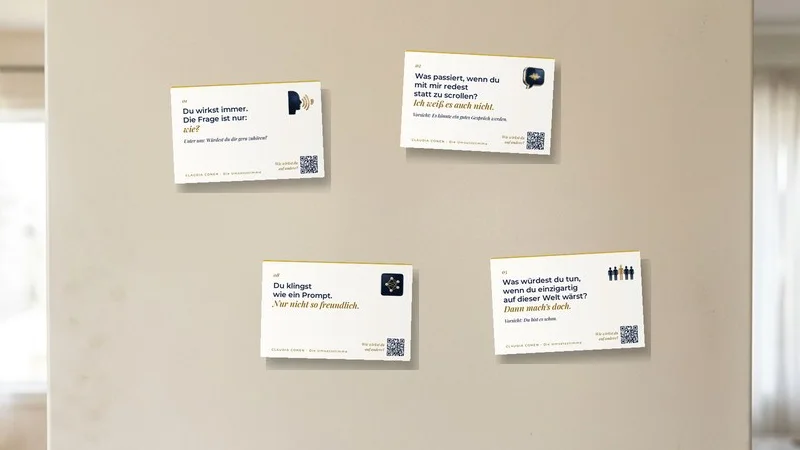
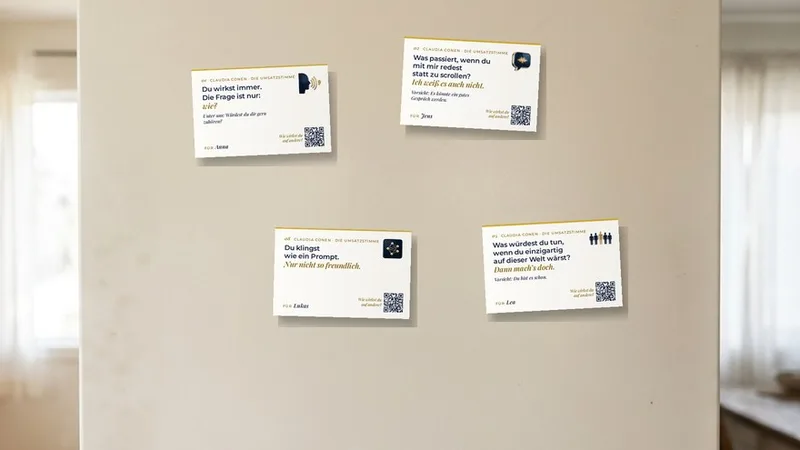
Magnet-Seite: Karten druckgleich (mm-Maßstab), Challenge-Knopf kräftiger

diff --git a/magnet.html b/magnet.html
@@ -24,6 +24,7 @@ h1{font-size:clamp(38px,6vw,72px)}h2{font-size:clamp(28px,3.6vw,44px)}
 h1 em,h2 em{font:italic 600 1.06em/1 var(--ff-a);color:var(--gold-dunkel)}
 .navy h2 em{color:var(--gold)}
 .knopf{display:inline-block;background:var(--gold-glanz);color:var(--navy);font:600 13px var(--ff);letter-spacing:.16em;text-transform:uppercase;text-decoration:none;padding:17px 28px;border:0;cursor:pointer;box-shadow:0 8px 22px rgba(140,106,18,.25)}
+.ch-knopf{background:#13233F;color:#fff;box-shadow:0 8px 22px rgba(15,31,58,.28)}.ch-knopf span{color:var(--gold);margin-left:10px;padding-left:10px;border-left:1px solid rgba(212,175,55,.6)}
 .knopf.zweit{background:transparent;box-shadow:none;border:1px solid var(--gold-dunkel);color:var(--text)}
 .held{padding:clamp(40px,6vw,80px) 0 clamp(28px,4vw,44px);text-align:center}
 .held p{max-width:620px;margin:20px auto 0;font-size:clamp(17px,1.5vw,20px)}
@@ -34,18 +35,28 @@ h1 em,h2 em{font:italic 600 1.06em/1 var(--ff-a);color:var(--gold-dunkel)}
 .band:hover .spur,.band:focus-within .spur,.band.halt .spur{animation-play-state:paused}
 @keyframes lauf{to{transform:translateX(calc(-50% - 13px))}}
 @media (prefers-reduced-motion:reduce){.spur{animation:none}.band{overflow-x:auto}}
-.mag{position:relative;flex:0 0 auto;width:360px;height:236px;background:#fff;border-top:4px solid var(--gold);border-radius:6px;box-shadow:0 12px 28px rgba(15,31,58,.16);padding:20px 24px 0}
-.mag .kopf{display:flex;gap:12px;align-items:baseline}
-.mag .nr{font:italic 600 20px var(--ff-a);color:var(--gold-dunkel)}
-.mag .gr{font:600 10px var(--ff);letter-spacing:.2em;text-transform:uppercase;color:var(--gold-dunkel)}
-.mag img{position:absolute;right:16px;top:16px;width:64px;height:64px;object-fit:contain}
-.mag .s{margin:12px 0 0;padding-right:58px;font:600 17px/1.28 var(--ff-h)}
-.mag .s em{font:italic 600 1.1em/1.2 var(--ff-a);color:var(--gold-dunkel)}
-.mag .k{margin:8px 0 0;font:italic 500 13.5px/1.35 var(--ff-a)}
-.mag .fn{position:absolute;left:24px;bottom:14px;font:500 11px var(--ff);letter-spacing:.14em;text-transform:uppercase;color:var(--gold-dunkel)}
-.mag .hoer{position:absolute;right:14px;bottom:10px;display:none;align-items:center;gap:6px;border:1px solid var(--gold-dunkel);background:#fff;color:var(--text);font:600 10.5px var(--ff);letter-spacing:.14em;text-transform:uppercase;padding:6px 10px;cursor:pointer}
-.mag.hat-audio .hoer{display:inline-flex}
-.mag .fn span{font:italic 600 15px var(--ff-a);letter-spacing:0;text-transform:none;color:var(--text);border-bottom:1px dashed var(--linie)}
+/* Karte = maßstabsgetreues Abbild des Drucks (85 × 55 mm) */
+.slot{flex:0 0 auto;display:flex;flex-direction:column;gap:10px}
+.slot .grp{font:600 11px var(--ff);letter-spacing:.2em;text-transform:uppercase;color:var(--gold-dunkel)}
+.slot .mag{--mm:calc(400px / 85);box-shadow:0 12px 28px rgba(15,31,58,.18);border-radius:3px}
+.slot .hoer{align-self:flex-start;display:inline-flex;align-items:center;gap:6px;border:1px solid var(--gold-dunkel);background:#fff;color:var(--text);font:600 10.5px var(--ff);letter-spacing:.14em;text-transform:uppercase;padding:6px 10px;cursor:pointer}
+
+.mag{position:relative;width:calc(85*var(--mm));height:calc(55*var(--mm));background:#FDFBF7;overflow:hidden;
+ padding:calc(5.4*var(--mm)) calc(6*var(--mm)) 0;box-sizing:border-box;color:#1A2744;text-align:left}
+.mag::before{content:"";position:absolute;left:0;right:0;top:0;height:calc(.8*var(--mm));background:#D4AF37}
+.mag .kopf{display:flex;align-items:baseline;gap:calc(2.4*var(--mm));margin:0 0 calc(1.8*var(--mm))}
+.mag .nr{font:italic 600 calc(2.9*var(--mm))/1 'Playfair Display',Georgia,serif;color:#8C6A12}
+.mag .ic{position:absolute;right:calc(4.5*var(--mm));top:calc(4.5*var(--mm));width:calc(14*var(--mm));height:calc(14*var(--mm));object-fit:contain}
+.mag .z{margin:0;font:600 calc(4.2*var(--mm))/1.2 Montserrat,sans-serif;letter-spacing:-.01em;max-width:calc(57*var(--mm))}
+.mag .gd{display:block;font:italic 600 1.1em/1.15 'Playfair Display',Georgia,serif;color:#8C6A12}
+.mag .t{margin:calc(2*var(--mm)) 0 0;font:italic 500 calc(2.9*var(--mm))/1.3 'Playfair Display',Georgia,serif;max-width:calc(46*var(--mm))}
+.mag .fuer{position:absolute;left:calc(6*var(--mm));bottom:calc(4.4*var(--mm));font:italic 600 calc(3.4*var(--mm))/1 'Playfair Display',Georgia,serif}
+.mag .fuer small{font:500 calc(2.2*var(--mm)) Montserrat,sans-serif;letter-spacing:.14em;text-transform:uppercase;color:#8C6A12;margin-right:calc(1*var(--mm))}
+.mag .fuss{font:500 calc(2.2*var(--mm))/1 Montserrat,sans-serif;letter-spacing:.12em;color:#8C6A12}
+.mag .qr{position:absolute;right:calc(4*var(--mm));bottom:calc(3.6*var(--mm));display:flex;align-items:center;gap:calc(1.6*var(--mm))}
+.mag .qr span{text-align:right;font:italic 500 calc(2.5*var(--mm))/1.2 'Playfair Display',Georgia,serif;color:#8C6A12}
+.mag .qr svg{width:calc(12*var(--mm));height:calc(12*var(--mm));display:block}
+
 /* Produkt */
 .produkt{padding:8px 0 clamp(48px,6vw,80px)}
 .pz{display:grid;grid-template-columns:1fr 1fr;gap:clamp(18px,3vw,34px);align-items:start}
@@ -73,27 +84,28 @@ input,select{font:400 16px var(--ff);color:var(--text);padding:12px 14px;border:
 .ch .txt{flex:1 1 380px}
 .navy p{color:var(--gold-hell);margin:14px 0 0;max-width:560px}
 .datum{display:inline-block;margin:14px 22px 0 0;font:600 12px var(--ff);letter-spacing:.2em;text-transform:uppercase;color:var(--gold)}
-.navy .knopf{margin-top:18px}
+.navy .knopf{margin-top:18px}.knopf.gross{font-size:14px;padding:20px 34px}
 footer{padding:22px 0;font-size:13px;letter-spacing:.06em;border-top:1px solid var(--linie)}
-@media(max-width:820px){.zwei{grid-template-columns:1fr}.mag{width:300px;height:226px}.mag .s{font-size:15.5px}}
+@media(max-width:820px){.zwei{grid-template-columns:1fr}.slot .mag{--mm:calc(min(340px, 100vw - 40px) / 85)}.ch-knopf span{display:block;border:0;margin:6px 0 0;padding:0}}
 </style>
 </head>
 <body>
+<svg width="0" height="0" style="position:absolute" aria-hidden="true"><symbol id="qr" viewBox="0 0 29 29"><path fill="#0F1F3A" d="M0,0H1V1H0zM1,0H2V1H1zM2,0H3V1H2zM3,0H4V1H3zM4,0H5V1H4zM5,0H6V1H5zM6,0H7V1H6zM8,0H9V1H8zM10,0H11V1H10zM11,0H12V1H11zM12,0H13V1H12zM13,0H14V1H13zM14,0H15V1H14zM16,0H17V1H16zM17,0H18V1H17zM18,0H19V1H18zM22,0H23V1H22zM23,0H24V1H23zM24,0H25V1H24zM25,0H26V1H25zM26,0H27V1H26zM27,0H28V1H27zM28,0H29V1H28zM0,1H1V2H0zM6,1H7V2H6zM10,1H11V2H10zM13,1H14V2H13zM14,1H15V2H14zM15,1H16V2H15zM17,1H18V2H17zM19,1H20V2H19zM22,1H23V2H22zM28,1H29V2H28zM0,2H1V3H0zM2,2H3V3H2zM3,2H4V3H3zM4,2H5V3H4zM6,2H7V3H6zM9,2H10V3H9zM11,2H12V3H11zM14,2H15V3H14zM17,2H18V3H17zM18,2H19V3H18zM19,2H20V3H19zM22,2H23V3H22zM24,2H25V3H24zM25,2H26V3H25zM26,2H27V3H26zM28,2H29V3H28zM0,3H1V4H0zM2,3H3V4H2zM3,3H4V4H3zM4,3H5V4H4zM6,3H7V4H6zM8,3H9V4H8zM9,3H10V4H9zM10,3H11V4H10zM11,3H12V4H11zM18,3H19V4H18zM22,3H23V4H22zM24,3H25V4H24zM25,3H26V4H25zM26,3H27V4H26zM28,3H29V4H28zM0,4H1V5H0zM2,4H3V5H2zM3,4H4V5H3zM4,4H5V5H4zM6,4H7V5H6zM8,4H9V5H8zM11,4H12V5H11zM17,4H18V5H17zM18,4H19V5H18zM22,4H23V5H22zM24,4H25V5H24zM25,4H26V5H25zM26,4H27V5H26zM28,4H29V5H28zM0,5H1V6H0zM6,5H7V6H6zM8,5H9V6H8zM11,5H12V6H11zM12,5H13V6H12zM16,5H17V6H16zM19,5H20V6H19zM20,5H21V6H20zM22,5H23V6H22zM28,5H29V6H28zM0,6H1V7H0zM1,6H2V7H1zM2,6H3V7H2zM3,6H4V7H3zM4,6H5V7H4zM5,6H6V7H5zM6,6H7V7H6zM8,6H9V7H8zM10,6H11V7H10zM12,6H13V7H12zM14,6H15V7H14zM16,6H17V7H16zM18,6H19V7H18zM20,6H21V7H20zM22,6H23V7H22zM23,6H24V7H23zM24,6H25V7H24zM25,6H26V7H25zM26,6H27V7H26zM27,6H28V7H27zM28,6H29V7H28zM8,7H9V8H8zM9,7H10V8H9zM10,7H11V8H10zM12,7H13V8H12zM13,7H14V8H13zM15,7H16V8H15zM16,7H17V8H16zM17,7H18V8H17zM18,7H19V8H18zM19,7H20V8H19zM20,7H21V8H20zM0,8H1V9H0zM4,8H5V9H4zM6,8H7V9H6zM7,8H8V9H7zM8,8H9V9H8zM11,8H12V9H11zM12,8H13V9H12zM13,8H14V9H13zM17,8H18V9H17zM18,8H19V9H18zM20,8H21V9H20zM21,8H22V9H21zM22,8H23V9H22zM23,8H24V9H23zM24,8H25V9H24zM25,8H26V9H25zM28,8H29V9H28zM1,9H2V10H1zM3,9H4V10H3zM7,9H8V10H7zM11,9H12V10H11zM12,9H13V10H12zM13,9H14V10H13zM14,9H15V10H14zM16,9H17V10H16zM17,9H18V10H17zM18,9H19V10H18zM20,9H21V10H20zM22,9H23V10H22zM23,9H24V10H23zM24,9H25V10H24zM25,9H26V10H25zM26,9H27V10H26zM27,9H28V10H27zM28,9H29V10H28zM0,10H1V11H0zM5,10H6V11H5zM6,10H7V11H6zM11,10H12V11H11zM12,10H13V11H12zM16,10H17V11H16zM18,10H19V11H18zM22,10H23V11H22zM28,10H29V11H28zM0,11H1V12H0zM1,11H2V12H1zM7,11H8V12H7zM10,11H11V12H10zM14,11H15V12H14zM17,11H18V12H17zM18,11H19V12H18zM19,11H20V12H19zM20,11H21V12H20zM21,11H22V12H21zM22,11H23V12H22zM25,11H26V12H25zM27,11H28V12H27zM28,11H29V12H28zM0,12H1V13H0zM3,12H4V13H3zM5,12H6V13H5zM6,12H7V13H6zM8,12H9V13H8zM9,12H10V13H9zM11,12H12V13H11zM13,12H14V13H13zM14,12H15V13H14zM15,12H16V13H15zM16,12H17V13H16zM17,12H18V13H17zM20,12H21V13H20zM21,12H22V13H21zM23,12H24V13H23zM27,12H28V13H27zM0,13H1V14H0zM1,13H2V14H1zM2,13H3V14H2zM4,13H5V14H4zM7,13H8V14H7zM9,13H10V14H9zM17,13H18V14H17zM18,13H19V14H18zM22,13H23V14H22zM23,13H24V14H23zM24,13H25V14H24zM25,13H26V14H25zM26,13H27V14H26zM27,13H28V14H27zM28,13H29V14H28zM3,14H4V15H3zM5,14H6V15H5zM6,14H7V15H6zM10,14H11V15H10zM13,14H14V15H13zM14,14H15V15H14zM15,14H16V15H15zM17,14H18V15H17zM18,14H19V15H18zM20,14H21V15H20zM21,14H22V15H21zM25,14H26V15H25zM26,14H27V15H26zM28,14H29V15H28zM0,15H1V16H0zM1,15H2V16H1zM4,15H5V16H4zM5,15H6V16H5zM9,15H10V16H9zM13,15H14V16H13zM15,15H16V16H15zM16,15H17V16H16zM17,15H18V16H17zM18,15H19V16H18zM20,15H21V16H20zM22,15H23V16H22zM23,15H24V16H23zM27,15H28V16H27zM28,15H29V16H28zM0,16H1V17H0zM2,16H3V17H2zM6,16H7V17H6zM7,16H8V17H7zM9,16H10V17H9zM10,16H11V17H10zM11,16H12V17H11zM12,16H13V17H12zM13,16H14V17H13zM17,16H18V17H17zM19,16H20V17H19zM20,16H21V17H20zM21,16H22V17H21zM27,16H28V17H27zM0,17H1V18H0zM1,17H2V18H1zM2,17H3V18H2zM3,17H4V18H3zM4,17H5V18H4zM5,17H6V18H5zM8,17H9V18H8zM9,17H10V18H9zM10,17H11V18H10zM12,17H13V18H12zM13,17H14V18H13zM14,17H15V18H14zM16,17H17V18H16zM18,17H19V18H18zM22,17H23V18H22zM23,17H24V18H23zM24,17H25V18H24zM25,17H26V18H25zM27,17H28V18H27zM28,17H29V18H28zM2,18H3V19H2zM5,18H6V19H5zM6,18H7V19H6zM7,18H8V19H7zM8,18H9V19H8zM10,18H11V19H10zM11,18H12V19H11zM12,18H13V19H12zM16,18H17V19H16zM17,18H18V19H17zM21,18H22V19H21zM22,18H23V19H22zM23,18H24V19H23zM26,18H27V19H26zM28,18H29V19H28zM3,19H4V20H3zM4,19H5V20H4zM8,19H9V20H8zM9,19H10V20H9zM10,19H11V20H10zM12,19H13V20H12zM14,19H15V20H14zM17,19H18V20H17zM18,19H19V20H18zM19,19H20V20H19zM20,19H21V20H20zM22,19H23V20H22zM24,19H25V20H24zM27,19H28V20H27zM28,19H29V20H28zM0,20H1V21H0zM1,20H2V21H1zM3,20H4V21H3zM5,20H6V21H5zM6,20H7V21H6zM8,20H9V21H8zM9,20H10V21H9zM11,20H12V21H11zM13,20H14V21H13zM14,20H15V21H14zM15,20H16V21H15zM17,20H18V21H17zM20,20H21V21H20zM21,20H22V21H21zM22,20H23V21H22zM23,20H24V21H23zM24,20H25V21H24zM25,20H26V21H25zM28,20H29V21H28zM8,21H9V22H8zM9,21H10V22H9zM11,21H12V22H11zM18,21H19V22H18zM19,21H20V22H19zM20,21H21V22H20zM24,21H25V22H24zM28,21H29V22H28zM0,22H1V23H0zM1,22H2V23H1zM2,22H3V23H2zM3,22H4V23H3zM4,22H5V23H4zM5,22H6V23H5zM6,22H7V23H6zM8,22H9V23H8zM10,22H11V23H10zM11,22H12V23H11zM13,22H14V23H13zM14,22H15V23H14zM15,22H16V23H15zM16,22H17V23H16zM18,22H19V23H18zM19,22H20V23H19zM20,22H21V23H20zM22,22H23V23H22zM24,22H25V23H24zM25,22H26V23H25zM26,22H27V23H26zM28,22H29V23H28zM0,23H1V24H0zM6,23H7V24H6zM9,23H10V24H9zM12,23H13V24H12zM13,23H14V24H13zM15,23H16V24H15zM17,23H18V24H17zM18,23H19V24H18zM19,23H20V24H19zM20,23H21V24H20zM24,23H25V24H24zM0,24H1V25H0zM2,24H3V25H2zM3,24H4V25H3zM4,24H5V25H4zM6,24H7V25H6zM8,24H9V25H8zM10,24H11V25H10zM11,24H12V25H11zM12,24H13V25H12zM13,24H14V25H13zM16,24H17V25H16zM17,24H18V25H17zM19,24H20V25H19zM20,24H21V25H20zM21,24H22V25H21zM22,24H23V25H22zM23,24H24V25H23zM24,24H25V25H24zM25,24H26V25H25zM27,24H28V25H27zM28,24H29V25H28zM0,25H1V26H0zM2,25H3V26H2zM3,25H4V26H3zM4,25H5V26H4zM6,25H7V26H6zM9,25H10V26H9zM12,25H13V26H12zM13,25H14V26H13zM14,25H15V26H14zM15,25H16V26H15zM16,25H17V26H16zM17,25H18V26H17zM18,25H19V26H18zM21,25H22V26H21zM27,25H28V26H27zM0,26H1V27H0zM2,26H3V27H2zM3,26H4V27H3zM4,26H5V27H4zM6,26H7V27H6zM10,26H11V27H10zM11,26H12V27H11zM12,26H13V27H12zM15,26H16V27H15zM18,26H19V27H18zM19,26H20V27H19zM20,26H21V27H20zM21,26H22V27H21zM25,26H26V27H25zM26,26H27V27H26zM27,26H28V27H27zM28,26H29V27H28zM0,27H1V28H0zM6,27H7V28H6zM9,27H10V28H9zM10,27H11V28H10zM14,27H15V28H14zM15,27H16V28H15zM17,27H18V28H17zM20,27H21V28H20zM21,27H22V28H21zM22,27H23V28H22zM24,27H25V28H24zM25,27H26V28H25zM27,27H28V28H27zM28,27H29V28H28zM0,28H1V29H0zM1,28H2V29H1zM2,28H3V29H2zM3,28H4V29H3zM4,28H5V29H4zM5,28H6V29H5zM6,28H7V29H6zM8,28H9V29H8zM10,28H11V29H10zM13,28H14V29H13zM14,28H15V29H14zM17,28H18V29H17zM20,28H21V29H20zM21,28H22V29H21zM22,28H23V29H22zM24,28H25V29H24zM25,28H26V29H25zM27,28H28V29H27z"/></symbol></svg>
 <header class="w leiste"><a class="marke" href="#">Claudia Conen <span>· Die Umsatzstimme</span></a><a class="knopf zweit" style="padding:10px 16px;font-size:11px" href="#bestellen">Bestellen</a></header>
 
 <section class="held"><div class="w">
  <div class="eyebrow">Personalisierte Magnete</div>
  <h1>Sprüche, die <em>hängen bleiben.</em></h1>
  <p>Über Wirkung, mit Herz oder mit Biss. Mit deinem Namen oder dem eines Menschen, den du magst.</p>
- <div class="wege"><a class="knopf" href="#bestellen">Magnet bestellen</a><a class="knopf zweit" href="#challenge">Zur Video-Challenge</a></div>
+ <div class="wege"><a class="knopf" href="#bestellen">Magnet bestellen</a><a class="knopf ch-knopf" href="#challenge">Zur Video-Challenge <span>Start 26.10.</span></a></div>
 </div></section>
 
-<div class="band" id="band" tabindex="0" aria-label="Alle Sprüche, laufen langsam durch. Zum Anhalten mit der Maus darüberfahren."><div class="spur"><article class="mag" data-audio="magnet-dateien/audio/01.m4a"><div class="kopf"><span class="nr">01</span><span class="gr">Mit Herz</span></div><img src="magnet-dateien/schritt-5.webp" alt="" loading="lazy"><p class="s">Du wirkst immer. Die Frage ist nur: <em>wie?</em></p><p class="k">Unter uns: Würdest du dir gern zuhören?</p><div class="fn">Für <span>Anna</span></div></article><article class="mag" data-audio="magnet-dateien/audio/02.m4a"><div class="kopf"><span class="nr">02</span><span class="gr">Mit Herz</span></div><img src="magnet-dateien/botschaft.webp" alt="" loading="lazy"><p class="s">Was passiert, wenn du mit mir redest statt zu scrollen? <em>Ich weiß es auch nicht.</em></p><p class="k">Vorsicht: Es könnte ein gutes Gespräch werden.</p><div class="fn">Für <span>Jens</span></div></article><article class="mag" data-audio="magnet-dateien/audio/03.m4a"><div class="kopf"><span class="nr">03</span><span class="gr">Mit Herz</span></div><img src="magnet-dateien/schritt-1.webp" alt="" loading="lazy"><p class="s">Stell dir vor, du bleibst für immer in meinem Kopf. <em>Genau so, wie du gerade redest.</em></p><p class="k">Vorsicht: Du könntest begeistern. Oder eben nicht.</p><div class="fn">Für <span>Sabine</span></div></article><article class="mag" data-audio="magnet-dateien/audio/04.m4a"><div class="kopf"><span class="nr">04</span><span class="gr">Mit Herz</span></div><img src="magnet-dateien/schritt-7.webp" alt="" loading="lazy"><p class="s">Sei so freundlich wie deine KI. <em>Dann reden wir.</em></p><p class="k">Vorsicht: Menschen merken den Unterschied.</p><div class="fn">Für <span>Mehmet</span></div></article><article class="mag" data-audio="magnet-dateien/audio/05.m4a"><div class="kopf"><span class="nr">05</span><span class="gr">Mit Herz</span></div><img src="magnet-dateien/schritt-3.webp" alt="" loading="lazy"><p class="s">Was würdest du tun, wenn du einzigartig auf dieser Welt wärst? <em>Dann mach’s doch.</em></p><p class="k">Vorsicht: Du bist es schon.</p><div class="fn">Für <span>Lea</span></div></article><article class="mag" data-audio="magnet-dateien/audio/06.m4a"><div class="kopf"><span class="nr">06</span><span class="gr">Mit Herz</span></div><img src="magnet-dateien/schritt-8.webp" alt="" loading="lazy"><p class="s">Menschen haben <em>keine Reset-Taste.</em></p><p class="k">Also: Bitte freundlich.</p><div class="fn">Für <span>Thomas</span></div></article><article class="mag" data-audio="magnet-dateien/audio/07.m4a"><div class="kopf"><span class="nr">07</span><span class="gr">Mit Biss</span></div><img src="magnet-dateien/geschenk.webp" alt="" loading="lazy"><p class="s">Kompetenz: vorhanden. Wirkung: <em>wird nachgeliefert.</em></p><p class="k">Vorsicht: Lieferzeit unbekannt.</p><div class="fn">Für <span>Petra</span></div></article><article class="mag" data-audio="magnet-dateien/audio/08.m4a"><div class="kopf"><span class="nr">08</span><span class="gr">Mit Biss</span></div><img src="magnet-dateien/ki.webp" alt="" loading="lazy"><p class="s">Du klingst wie ein Prompt. <em>Nur nicht so freundlich.</em></p><div class="fn">Für <span>Lukas</span></div></article><article class="mag" data-audio="magnet-dateien/audio/09.m4a"><div class="kopf"><span class="nr">09</span><span class="gr">Mit Biss</span></div><img src="magnet-dateien/schritt-9.webp" alt="" loading="lazy"><p class="s">Dein Pitch war super. <em>Hat nur keiner verstanden.</em></p><div class="fn">Für <span>Julia</span></div></article><article class="mag" data-audio="magnet-dateien/audio/10.m4a"><div class="kopf"><span class="nr">10</span><span class="gr">Mit Biss</span></div><img src="magnet-dateien/praesenz.webp" alt="" loading="lazy"><p class="s">Kamera an, Persönlichkeit aus? <em>Warum redest du jetzt so anders?</em></p><div class="fn">Für <span>Markus</span></div></article><article class="mag" data-audio="magnet-dateien/audio/01.m4a"><div class="kopf"><span class="nr">01</span><span class="gr">Mit Herz</span></div><img src="magnet-dateien/schritt-5.webp" alt="" loading="lazy"><p class="s">Du wirkst immer. Die Frage ist nur: <em>wie?</em></p><p class="k">Unter uns: Würdest du dir gern zuhören?</p><div class="fn">Für <span>Anna</span></div></article><article class="mag" data-audio="magnet-dateien/audio/02.m4a"><div class="kopf"><span class="nr">02</span><span class="gr">Mit Herz</span></div><img src="magnet-dateien/botschaft.webp" alt="" loading="lazy"><p class="s">Was passiert, wenn du mit mir redest statt zu scrollen? <em>Ich weiß es auch nicht.</em></p><p class="k">Vorsicht: Es könnte ein gutes Gespräch werden.</p><div class="fn">Für <span>Jens</span></div></article><article class="mag" data-audio="magnet-dateien/audio/03.m4a"><div class="kopf"><span class="nr">03</span><span class="gr">Mit Herz</span></div><img src="magnet-dateien/schritt-1.webp" alt="" loading="lazy"><p class="s">Stell dir vor, du bleibst für immer in meinem Kopf. <em>Genau so, wie du gerade redest.</em></p><p class="k">Vorsicht: Du könntest begeistern. Oder eben nicht.</p><div class="fn">Für <span>Sabine</span></div></article><article class="mag" data-audio="magnet-dateien/audio/04.m4a"><div class="kopf"><span class="nr">04</span><span class="gr">Mit Herz</span></div><img src="magnet-dateien/schritt-7.webp" alt="" loading="lazy"><p class="s">Sei so freundlich wie deine KI. <em>Dann reden wir.</em></p><p class="k">Vorsicht: Menschen merken den Unterschied.</p><div class="fn">Für <span>Mehmet</span></div></article><article class="mag" data-audio="magnet-dateien/audio/05.m4a"><div class="kopf"><span class="nr">05</span><span class="gr">Mit Herz</span></div><img src="magnet-dateien/schritt-3.webp" alt="" loading="lazy"><p class="s">Was würdest du tun, wenn du einzigartig auf dieser Welt wärst? <em>Dann mach’s doch.</em></p><p class="k">Vorsicht: Du bist es schon.</p><div class="fn">Für <span>Lea</span></div></article><article class="mag" data-audio="magnet-dateien/audio/06.m4a"><div class="kopf"><span class="nr">06</span><span class="gr">Mit Herz</span></div><img src="magnet-dateien/schritt-8.webp" alt="" loading="lazy"><p class="s">Menschen haben <em>keine Reset-Taste.</em></p><p class="k">Also: Bitte freundlich.</p><div class="fn">Für <span>Thomas</span></div></article><article class="mag" data-audio="magnet-dateien/audio/07.m4a"><div class="kopf"><span class="nr">07</span><span class="gr">Mit Biss</span></div><img src="magnet-dateien/geschenk.webp" alt="" loading="lazy"><p class="s">Kompetenz: vorhanden. Wirkung: <em>wird nachgeliefert.</em></p><p class="k">Vorsicht: Lieferzeit unbekannt.</p><div class="fn">Für <span>Petra</span></div></article><article class="mag" data-audio="magnet-dateien/audio/08.m4a"><div class="kopf"><span class="nr">08</span><span class="gr">Mit Biss</span></div><img src="magnet-dateien/ki.webp" alt="" loading="lazy"><p class="s">Du klingst wie ein Prompt. <em>Nur nicht so freundlich.</em></p><div class="fn">Für <span>Lukas</span></div></article><article class="mag" data-audio="magnet-dateien/audio/09.m4a"><div class="kopf"><span class="nr">09</span><span class="gr">Mit Biss</span></div><img src="magnet-dateien/schritt-9.webp" alt="" loading="lazy"><p class="s">Dein Pitch war super. <em>Hat nur keiner verstanden.</em></p><div class="fn">Für <span>Julia</span></div></article><article class="mag" data-audio="magnet-dateien/audio/10.m4a"><div class="kopf"><span class="nr">10</span><span class="gr">Mit Biss</span></div><img src="magnet-dateien/praesenz.webp" alt="" loading="lazy"><p class="s">Kamera an, Persönlichkeit aus? <em>Warum redest du jetzt so anders?</em></p><div class="fn">Für <span>Markus</span></div></article></div></div>
+<div class="band" id="band" tabindex="0" aria-label="Alle Sprüche, laufen langsam durch. Zum Anhalten mit der Maus darüberfahren."><div class="spur"><article class="slot" data-audio="magnet-dateien/audio/01.m4a" data-nr="01"><div class="grp">Mit Herz</div><div class="mag"><div class="kopf"><span class="nr">01</span><span class="fuss">CLAUDIA CONEN · DIE UMSATZSTIMME</span></div><img class="ic" src="magnet-dateien/schritt-5.webp" alt=""><p class="z">Du wirkst immer.<br>Die Frage ist nur: <span class="gd">wie?</span></p><p class="t">Unter uns: Würdest du dir gern zuhören?</p><div class="fuer"><small>Für</small>Anna</div><div class="qr"><span>Wie wirkst du<br>auf andere?</span><svg viewBox="0 0 29 29"><use href="#qr"/></svg></div></div></article><article class="slot" data-audio="magnet-dateien/audio/02.m4a" data-nr="02"><div class="grp">Mit Herz</div><div class="mag"><div class="kopf"><span class="nr">02</span><span class="fuss">CLAUDIA CONEN · DIE UMSATZSTIMME</span></div><img class="ic" src="magnet-dateien/botschaft.webp" alt=""><p class="z">Was passiert, wenn du<br>mit mir redest<br>statt zu scrollen? <span class="gd">Ich weiß es auch nicht.</span></p><p class="t">Vorsicht: Es könnte ein gutes Gespräch werden.</p><div class="fuer"><small>Für</small>Jens</div><div class="qr"><span>Wie wirkst du<br>auf andere?</span><svg viewBox="0 0 29 29"><use href="#qr"/></svg></div></div></article><article class="slot" data-audio="magnet-dateien/audio/03.m4a" data-nr="03"><div class="grp">Mit Herz</div><div class="mag"><div class="kopf"><span class="nr">03</span><span class="fuss">CLAUDIA CONEN · DIE UMSATZSTIMME</span></div><img class="ic" src="magnet-dateien/schritt-1.webp" alt=""><p class="z">Stell dir vor,<br>du bleibst für immer<br>in meinem Kopf. <span class="gd">Genau so, wie du gerade redest.</span></p><p class="t">Vorsicht: Du könntest begeistern. Oder eben nicht.</p><div class="fuer"><small>Für</small>Sabine</div><div class="qr"><span>Wie wirkst du<br>auf andere?</span><svg viewBox="0 0 29 29"><use href="#qr"/></svg></div></div></article><article class="slot" data-audio="magnet-dateien/audio/04.m4a" data-nr="04"><div class="grp">Mit Herz</div><div class="mag"><div class="kopf"><span class="nr">04</span><span class="fuss">CLAUDIA CONEN · DIE UMSATZSTIMME</span></div><img class="ic" src="magnet-dateien/schritt-7.webp" alt=""><p class="z">Sei so freundlich<br>wie deine KI. <span class="gd">Dann reden wir.</span></p><p class="t">Vorsicht: Menschen merken den Unterschied.</p><div class="fuer"><small>Für</small>Mehmet</div><div class="qr"><span>Wie wirkst du<br>auf andere?</span><svg viewBox="0 0 29 29"><use href="#qr"/></svg></div></div></article><article class="slot" data-audio="magnet-dateien/audio/05.m4a" data-nr="05"><div class="grp">Mit Herz</div><div class="mag"><div class="kopf"><span class="nr">05</span><span class="fuss">CLAUDIA CONEN · DIE UMSATZSTIMME</span></div><img class="ic" src="magnet-dateien/schritt-3.webp" alt=""><p class="z">Was würdest du tun,<br>wenn du einzigartig<br>auf dieser Welt wärst? <span class="gd">Dann mach’s doch.</span></p><p class="t">Vorsicht: Du bist es schon.</p><div class="fuer"><small>Für</small>Lea</div><div class="qr"><span>Wie wirkst du<br>auf andere?</span><svg viewBox="0 0 29 29"><use href="#qr"/></svg></div></div></article><article class="slot" data-audio="magnet-dateien/audio/06.m4a" data-nr="06"><div class="grp">Mit Herz</div><div class="mag"><div class="kopf"><span class="nr">06</span><span class="fuss">CLAUDIA CONEN · DIE UMSATZSTIMME</span></div><img class="ic" src="magnet-dateien/schritt-8.webp" alt=""><p class="z">Menschen haben <span class="gd">keine Reset-Taste.</span></p><p class="t">Also: Bitte freundlich.</p><div class="fuer"><small>Für</small>Thomas</div><div class="qr"><span>Wie wirkst du<br>auf andere?</span><svg viewBox="0 0 29 29"><use href="#qr"/></svg></div></div></article><article class="slot" data-audio="magnet-dateien/audio/07.m4a" data-nr="07"><div class="grp">Mit Biss</div><div class="mag"><div class="kopf"><span class="nr">07</span><span class="fuss">CLAUDIA CONEN · DIE UMSATZSTIMME</span></div><img class="ic" src="magnet-dateien/geschenk.webp" alt=""><p class="z">Kompetenz: vorhanden.<br>Wirkung: <span class="gd">wird nachgeliefert.</span></p><p class="t">Vorsicht: Lieferzeit unbekannt.</p><div class="fuer"><small>Für</small>Petra</div><div class="qr"><span>Wie wirkst du<br>auf andere?</span><svg viewBox="0 0 29 29"><use href="#qr"/></svg></div></div></article><article class="slot" data-audio="magnet-dateien/audio/08.m4a" data-nr="08"><div class="grp">Mit Biss</div><div class="mag"><div class="kopf"><span class="nr">08</span><span class="fuss">CLAUDIA CONEN · DIE UMSATZSTIMME</span></div><img class="ic" src="magnet-dateien/ki.webp" alt=""><p class="z">Du klingst<br>wie ein Prompt. <span class="gd">Nur nicht so freundlich.</span></p><div class="fuer"><small>Für</small>Lukas</div><div class="qr"><span>Wie wirkst du<br>auf andere?</span><svg viewBox="0 0 29 29"><use href="#qr"/></svg></div></div></article><article class="slot" data-audio="magnet-dateien/audio/09.m4a" data-nr="09"><div class="grp">Mit Biss</div><div class="mag"><div class="kopf"><span class="nr">09</span><span class="fuss">CLAUDIA CONEN · DIE UMSATZSTIMME</span></div><img class="ic" src="magnet-dateien/schritt-9.webp" alt=""><p class="z">Dein Pitch war super. <span class="gd">Hat nur keiner verstanden.</span></p><div class="fuer"><small>Für</small>Julia</div><div class="qr"><span>Wie wirkst du<br>auf andere?</span><svg viewBox="0 0 29 29"><use href="#qr"/></svg></div></div></article><article class="slot" data-audio="magnet-dateien/audio/10.m4a" data-nr="10"><div class="grp">Mit Biss</div><div class="mag"><div class="kopf"><span class="nr">10</span><span class="fuss">CLAUDIA CONEN · DIE UMSATZSTIMME</span></div><img class="ic" src="magnet-dateien/praesenz.webp" alt=""><p class="z">Kamera an,<br>Persönlichkeit aus? <span class="gd">Warum redest du jetzt so anders?</span></p><div class="fuer"><small>Für</small>Markus</div><div class="qr"><span>Wie wirkst du<br>auf andere?</span><svg viewBox="0 0 29 29"><use href="#qr"/></svg></div></div></article><article class="slot" data-audio="magnet-dateien/audio/01.m4a" data-nr="01" aria-hidden="true"><div class="grp">Mit Herz</div><div class="mag"><div class="kopf"><span class="nr">01</span><span class="fuss">CLAUDIA CONEN · DIE UMSATZSTIMME</span></div><img class="ic" src="magnet-dateien/schritt-5.webp" alt=""><p class="z">Du wirkst immer.<br>Die Frage ist nur: <span class="gd">wie?</span></p><p class="t">Unter uns: Würdest du dir gern zuhören?</p><div class="fuer"><small>Für</small>Anna</div><div class="qr"><span>Wie wirkst du<br>auf andere?</span><svg viewBox="0 0 29 29"><use href="#qr"/></svg></div></div></article><article class="slot" data-audio="magnet-dateien/audio/02.m4a" data-nr="02" aria-hidden="true"><div class="grp">Mit Herz</div><div class="mag"><div class="kopf"><span class="nr">02</span><span class="fuss">CLAUDIA CONEN · DIE UMSATZSTIMME</span></div><img class="ic" src="magnet-dateien/botschaft.webp" alt=""><p class="z">Was passiert, wenn du<br>mit mir redest<br>statt zu scrollen? <span class="gd">Ich weiß es auch nicht.</span></p><p class="t">Vorsicht: Es könnte ein gutes Gespräch werden.</p><div class="fuer"><small>Für</small>Jens</div><div class="qr"><span>Wie wirkst du<br>auf andere?</span><svg viewBox="0 0 29 29"><use href="#qr"/></svg></div></div></article><article class="slot" data-audio="magnet-dateien/audio/03.m4a" data-nr="03" aria-hidden="true"><div class="grp">Mit Herz</div><div class="mag"><div class="kopf"><span class="nr">03</span><span class="fuss">CLAUDIA CONEN · DIE UMSATZSTIMME</span></div><img class="ic" src="magnet-dateien/schritt-1.webp" alt=""><p class="z">Stell dir vor,<br>du bleibst für immer<br>in meinem Kopf. <span class="gd">Genau so, wie du gerade redest.</span></p><p class="t">Vorsicht: Du könntest begeistern. Oder eben nicht.</p><div class="fuer"><small>Für</small>Sabine</div><div class="qr"><span>Wie wirkst du<br>auf andere?</span><svg viewBox="0 0 29 29"><use href="#qr"/></svg></div></div></article><article class="slot" data-audio="magnet-dateien/audio/04.m4a" data-nr="04" aria-hidden="true"><div class="grp">Mit Herz</div><div class="mag"><div class="kopf"><span class="nr">04</span><span class="fuss">CLAUDIA CONEN · DIE UMSATZSTIMME</span></div><img class="ic" src="magnet-dateien/schritt-7.webp" alt=""><p class="z">Sei so freundlich<br>wie deine KI. <span class="gd">Dann reden wir.</span></p><p class="t">Vorsicht: Menschen merken den Unterschied.</p><div class="fuer"><small>Für</small>Mehmet</div><div class="qr"><span>Wie wirkst du<br>auf andere?</span><svg viewBox="0 0 29 29"><use href="#qr"/></svg></div></div></article><article class="slot" data-audio="magnet-dateien/audio/05.m4a" data-nr="05" aria-hidden="true"><div class="grp">Mit Herz</div><div class="mag"><div class="kopf"><span class="nr">05</span><span class="fuss">CLAUDIA CONEN · DIE UMSATZSTIMME</span></div><img class="ic" src="magnet-dateien/schritt-3.webp" alt=""><p class="z">Was würdest du tun,<br>wenn du einzigartig<br>auf dieser Welt wärst? <span class="gd">Dann mach’s doch.</span></p><p class="t">Vorsicht: Du bist es schon.</p><div class="fuer"><small>Für</small>Lea</div><div class="qr"><span>Wie wirkst du<br>auf andere?</span><svg viewBox="0 0 29 29"><use href="#qr"/></svg></div></div></article><article class="slot" data-audio="magnet-dateien/audio/06.m4a" data-nr="06" aria-hidden="true"><div class="grp">Mit Herz</div><div class="mag"><div class="kopf"><span class="nr">06</span><span class="fuss">CLAUDIA CONEN · DIE UMSATZSTIMME</span></div><img class="ic" src="magnet-dateien/schritt-8.webp" alt=""><p class="z">Menschen haben <span class="gd">keine Reset-Taste.</span></p><p class="t">Also: Bitte freundlich.</p><div class="fuer"><small>Für</small>Thomas</div><div class="qr"><span>Wie wirkst du<br>auf andere?</span><svg viewBox="0 0 29 29"><use href="#qr"/></svg></div></div></article><article class="slot" data-audio="magnet-dateien/audio/07.m4a" data-nr="07" aria-hidden="true"><div class="grp">Mit Biss</div><div class="mag"><div class="kopf"><span class="nr">07</span><span class="fuss">CLAUDIA CONEN · DIE UMSATZSTIMME</span></div><img class="ic" src="magnet-dateien/geschenk.webp" alt=""><p class="z">Kompetenz: vorhanden.<br>Wirkung: <span class="gd">wird nachgeliefert.</span></p><p class="t">Vorsicht: Lieferzeit unbekannt.</p><div class="fuer"><small>Für</small>Petra</div><div class="qr"><span>Wie wirkst du<br>auf andere?</span><svg viewBox="0 0 29 29"><use href="#qr"/></svg></div></div></article><article class="slot" data-audio="magnet-dateien/audio/08.m4a" data-nr="08" aria-hidden="true"><div class="grp">Mit Biss</div><div class="mag"><div class="kopf"><span class="nr">08</span><span class="fuss">CLAUDIA CONEN · DIE UMSATZSTIMME</span></div><img class="ic" src="magnet-dateien/ki.webp" alt=""><p class="z">Du klingst<br>wie ein Prompt. <span class="gd">Nur nicht so freundlich.</span></p><div class="fuer"><small>Für</small>Lukas</div><div class="qr"><span>Wie wirkst du<br>auf andere?</span><svg viewBox="0 0 29 29"><use href="#qr"/></svg></div></div></article><article class="slot" data-audio="magnet-dateien/audio/09.m4a" data-nr="09" aria-hidden="true"><div class="grp">Mit Biss</div><div class="mag"><div class="kopf"><span class="nr">09</span><span class="fuss">CLAUDIA CONEN · DIE UMSATZSTIMME</span></div><img class="ic" src="magnet-dateien/schritt-9.webp" alt=""><p class="z">Dein Pitch war super. <span class="gd">Hat nur keiner verstanden.</span></p><div class="fuer"><small>Für</small>Julia</div><div class="qr"><span>Wie wirkst du<br>auf andere?</span><svg viewBox="0 0 29 29"><use href="#qr"/></svg></div></div></article><article class="slot" data-audio="magnet-dateien/audio/10.m4a" data-nr="10" aria-hidden="true"><div class="grp">Mit Biss</div><div class="mag"><div class="kopf"><span class="nr">10</span><span class="fuss">CLAUDIA CONEN · DIE UMSATZSTIMME</span></div><img class="ic" src="magnet-dateien/praesenz.webp" alt=""><p class="z">Kamera an,<br>Persönlichkeit aus? <span class="gd">Warum redest du jetzt so anders?</span></p><div class="fuer"><small>Für</small>Markus</div><div class="qr"><span>Wie wirkst du<br>auf andere?</span><svg viewBox="0 0 29 29"><use href="#qr"/></svg></div></div></article></div></div>
 
 <section class="produkt"><div class="w">
  <div class="pz">
   <figure><img src="magnet-dateien/kuehlschrank.webp" alt="Vier Magnete an einer Kühlschranktür" width="800" height="450" loading="lazy"><figcaption>So hängen sie bei dir, in Visitenkartengröße. (Beispielansicht)</figcaption></figure>
-  <figure><img src="magnet-dateien/geschenkkarte.webp" alt="Geschenkkarte mit sechs Magneten, Set Mit Herz" width="1200" height="919" loading="lazy"><figcaption>Das Set „Mit Herz“ kommt auf einer Geschenkkarte, mit Platz für „Für“ und „Von“. (Entwurf)</figcaption></figure>
+  <figure><img src="magnet-dateien/geschenkkarte.webp" alt="Geschenkkarte mit sechs Magneten, Set Mit Herz" width="1200" height="1059" loading="lazy"><figcaption>Das Set „Mit Herz“ kommt auf einer Geschenkkarte, mit Platz für „Für“ und „Von“. (Entwurf)</figcaption></figure>
  </div>
 </div></section>
 
@@ -125,7 +137,7 @@ footer{padding:22px 0;font-size:13px;letter-spacing:.06em;border-top:1px solid v
   <h2>Wie wirkst du <em>auf andere?</em></h2>
   <p>In der Video-Challenge siehst und hörst du dich so, wie andere dich erleben. Und du lernst, wie du daraus Vertrauen machst.</p>
   <span class="datum">Start 26.10.2026</span><br>
-  <a class="knopf" href="https://claudiaconen.com/challenge">Zur Video-Challenge</a>
+  <a class="knopf gross" href="https://claudiaconen.com/challenge">Jetzt zur Video-Challenge →</a>
  </div>
 </div></section>
 
@@ -135,9 +147,9 @@ footer{padding:22px 0;font-size:13px;letter-spacing:.06em;border-top:1px solid v
 const band=document.getElementById('band');
 // Nummern mit fertiger Aufnahme hier eintragen, z. B. ['01','02'] – Datei: magnet-dateien/audio/01.m4a
 const AUDIO=[];let spieler=null;
-document.querySelectorAll('.mag[data-audio]').forEach(m=>{
- const url=m.dataset.audio;const nr=m.querySelector('.nr').textContent;
- Promise.resolve(AUDIO.includes(nr)).then(ok=>{if(!ok)return;m.classList.add('hat-audio');
+document.querySelectorAll('.slot[data-audio]').forEach(m=>{
+ const url=m.dataset.audio;const nr=m.dataset.nr;
+ Promise.resolve(AUDIO.includes(nr)).then(ok=>{if(!ok)return;
   const k=document.createElement('button');k.className='hoer';k.type='button';k.textContent='▶ Hör rein';m.appendChild(k);
   k.addEventListener('click',()=>{if(spieler){spieler.pause();}spieler=new Audio(url);band.classList.add('halt');
    spieler.play();spieler.onended=()=>band.classList.remove('halt');});});
